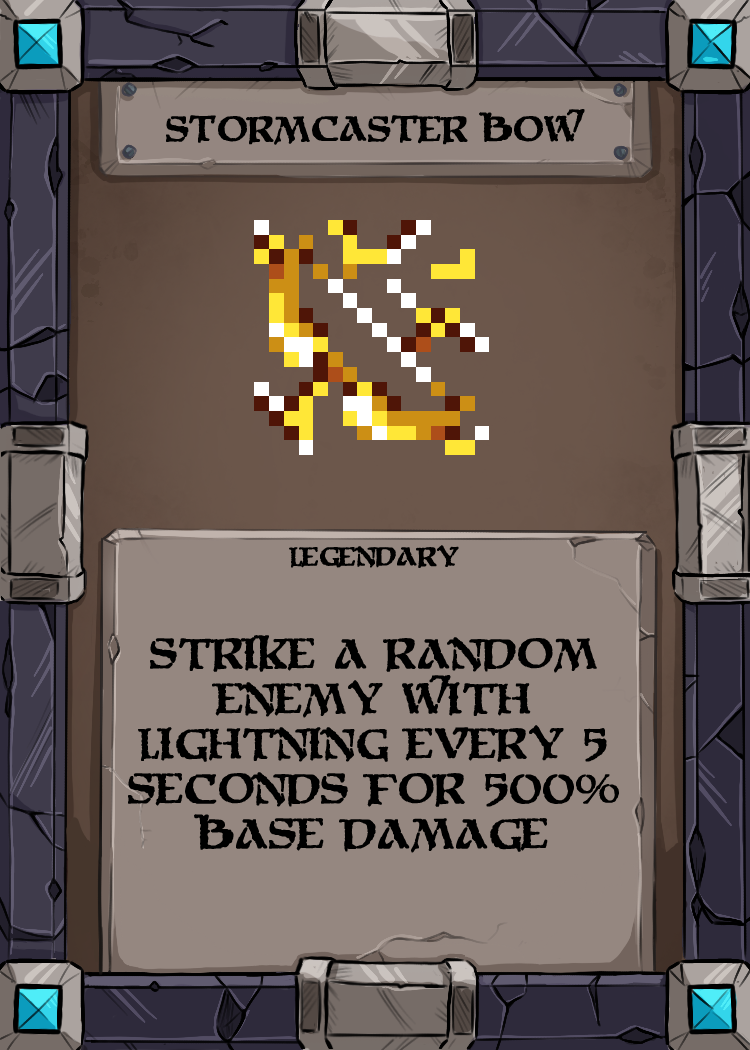
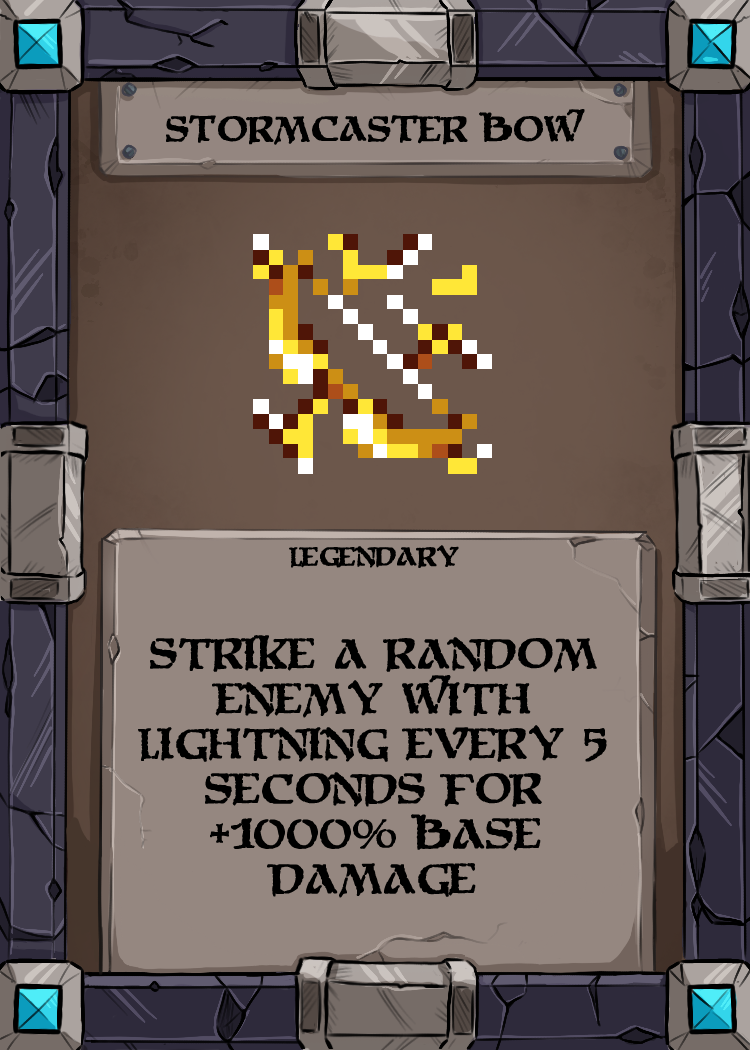
damage is now based off a base damage value

Changed region(s): [[0.3373, 0.2133, 0.6747, 0.4571], [0.1533, 0.7314, 0.828, 0.8533]]

diff --git a/FightingGame/Actions/AttackBehaviour.cs b/FightingGame/Actions/AttackBehaviour.cs
@@ -8,6 +8,7 @@ namespace FightingGame
 {
     public abstract class AttackBehaviour : AnimationBehaviour
     {
+        public float DamageCoefficent;
         public float Damage;
         public int AttackRange;
         public int Cooldown;
@@ -15,10 +16,10 @@ namespace FightingGame
         public bool IsRanged = false;
         public bool HasHit = false;
         public float baseDamage {  get; private set; }
-        public AttackBehaviour(AnimationType animationType, float damage, int attackRange, int cooldown, bool canMove) : base(animationType)
+        public AttackBehaviour(AnimationType animationType, float damageCoefficent, int attackRange, int cooldown, bool canMove) : base(animationType)
         {
-            baseDamage = damage;
-            Damage = damage;
+            Damage = damageCoefficent;
+            DamageCoefficent = damageCoefficent;
             AttackRange = attackRange;
             Cooldown = cooldown;
             this.canMove = canMove;
@@ -26,10 +27,9 @@ namespace FightingGame
 
         public override void OnStateEnter(Animator animator) 
         {
-            Damage = animator.Entity.BaseDamage + baseDamage;
+            Damage = animator.Entity.BaseDamage * DamageCoefficent;
             animator.Entity.IsAttacking = true;
             animator.Entity.CurrentAbility = this;
-            //Damage = Damage + Damage * Multipliers.Instance.AbilityDamageMultiplier;
         }
         public override void OnStateUpdate(Animator animator) { }
         public override void OnStateExit(Animator animator) 
@@ -37,10 +37,6 @@ namespace FightingGame
             animator.Entity.IsAttacking = false;
             HasHit = false;
             Damage = baseDamage;
-        }
-        public void Crit()
-        {
-            Damage += Damage * 2;
         }
     }
 }

diff --git a/FightingGame/PowerUps/PowerUpScripts/LightningStrikeScript.cs b/FightingGame/PowerUps/PowerUpScripts/LightningStrikeScript.cs
@@ -10,14 +10,14 @@ namespace FightingGame
     public class LightningStrikeScript : PowerUpScript
     {
         private ProjectileType projectileType;
-        public float DamagePercentage;
+        public float DamageCoefficent;
         private double timeInterval = 5;
         private double currentTime;
         Random random = new Random();
 
         public LightningStrikeScript(PowerUpType type) : base(type)
         {
-            DamagePercentage = 5;
+            DamageCoefficent = 10;
             projectileType = ProjectileType.LightningStrike;
         }
         public override void Update()
@@ -42,7 +42,7 @@ namespace FightingGame
                 {
                     int randomIndex = random.Next(enemiesInRange.Count);
                     Enemy randomEnemy = enemiesInRange[randomIndex];
-                    GameObjects.Instance.ProjectileManager.AddCharacterProjectile(projectileType, randomEnemy.Position - new Vector2(0, 120), Vector2.Zero, 0, (int)(GameObjects.Instance.SelectedCharacter.BaseDamage * DamagePercentage));
+                    GameObjects.Instance.ProjectileManager.AddCharacterProjectile(projectileType, randomEnemy.Position - new Vector2(0, 120), Vector2.Zero, 0, (int)(GameObjects.Instance.SelectedCharacter.BaseDamage * DamageCoefficent));
                     // Now you have a random enemy within range, you can perform actions with it
                 }
             }

diff --git a/FightingGame/Managers/ContentManager.cs b/FightingGame/Managers/ContentManager.cs
@@ -385,10 +385,10 @@ namespace FightingGame
             {
                 [AnimationType.Run] = new Run(AnimationType.Run),
                 [AnimationType.Dodge] = new Dodge(AnimationType.Dodge, 5, 2),
-                [AnimationType.BasicAttack] = new MeleeAttack(AnimationType.BasicAttack, 5, 0, 0, true),
-                [AnimationType.Ability1] = new MeleeAttack(AnimationType.Ability1, 7, 0, 2, true),
-                [AnimationType.Ability2] = new MeleeAttack(AnimationType.Ability2, 10, 0, 3, true),
-                [AnimationType.Ability3] = new MeleeAttack(AnimationType.Ability3, 5, 0, 2, false),
+                [AnimationType.BasicAttack] = new MeleeAttack(AnimationType.BasicAttack, 1, 0, 0, true),
+                [AnimationType.Ability1] = new MeleeAttack(AnimationType.Ability1, 1.5f, 0, 2, true),
+                [AnimationType.Ability2] = new MeleeAttack(AnimationType.Ability2, 1, 0, 3, true),
+                [AnimationType.Ability3] = new MeleeAttack(AnimationType.Ability3, 2f, 0, 2, false),
                 [AnimationType.UltimateTransform] = new UltimateTransform(AnimationType.UltimateTransform, 1.0f, 0, 0, false),
                 [AnimationType.UltimateStand] = new Stand(AnimationType.UltimateStand),
                 [AnimationType.UltimateRun] = new Run(AnimationType.UltimateRun),

diff --git a/FightingGame/Actions/AnimationBehaviours/MeleeAttack.cs b/FightingGame/Actions/AnimationBehaviours/MeleeAttack.cs
@@ -10,7 +10,7 @@ namespace FightingGame
     {
         Entity entity;
         bool savedDirection;
-        public MeleeAttack(AnimationType animationType, float damage, int attackRange, int cooldown, bool canMove) : base(animationType, damage, attackRange, cooldown, canMove)
+        public MeleeAttack(AnimationType animationType, float damageCoefficent, int attackRange, int cooldown, bool canMove) : base(animationType, damageCoefficent, attackRange, cooldown, canMove)
         {
 
         }
@@ -19,7 +19,7 @@ namespace FightingGame
         {
             entity = animator.Entity;
             savedDirection = animator.Entity.IsFacingLeft;
-            Damage = Damage + Damage * Multipliers.Instance.AbilityDamageMultiplier;
+            //Damage = Damage + Damage * Multipliers.Instance.AbilityDamageMultiplier;
             if(entity.CooldownManager.AnimationCooldown.ContainsKey(AnimationType))
             {
                 entity.CooldownManager.AnimationCooldown[AnimationType] = Cooldown;

diff --git a/FightingGame/PowerUps/PowerUps.cs b/FightingGame/PowerUps/PowerUps.cs
@@ -90,7 +90,7 @@ namespace FightingGame
         public void BaseDamageIncrease()
         {
             //Multipliers.Instance.AbilityDamageMultiplier += 0.1f;
-            SelectedCharacter.BaseDamage += SelectedCharacter.BaseDamage * 0.1f;
+            SelectedCharacter.BaseDamage += SelectedCharacter.BaseDamage * 0.2f;
         }
         public void CriticalChanceIncrease()
         {
@@ -112,11 +112,10 @@ namespace FightingGame
             }
             else
             {
-                //var lifesteal = (LightningStrikeScript)SelectedCharacter.PowerUps[PowerUpType.LifeSteal];
+                var lightningStrike = (LightningStrikeScript)SelectedCharacter.PowerUps[PowerUpType.LightningStrike];
+                lightningStrike.DamageCoefficent *= 2;
                 
             }
         }
-
-
     }
 }

diff --git a/FightingGame/Screens/GameScreen.cs b/FightingGame/Screens/GameScreen.cs
@@ -51,7 +51,7 @@ namespace FightingGame
             Graphics = graphics;
             Tilemap = new DrawableObject(textures[Texture.GameScreenBackground], new Vector2(0, 0), new Vector2(1920 * 1.8f, 1920 * 1.8f), Color.White);
             Globals.Tilemap = Tilemap.HitBox;
-            Hashashin = new Character(EntityName.Hashashin, 100, 7, 4, 1.3f);
+            Hashashin = new Character(EntityName.Hashashin, 100, 12, 4, 1.3f);
             Hashashin.SetBounds(new Rectangle(Tilemap.HitBox.X + 64, Tilemap.HitBox.Y + 64, Tilemap.HitBox.Width - 64, Tilemap.HitBox.Height - 64));
         }
         public override void PreferedScreenSize(GraphicsDeviceManager graphics)
